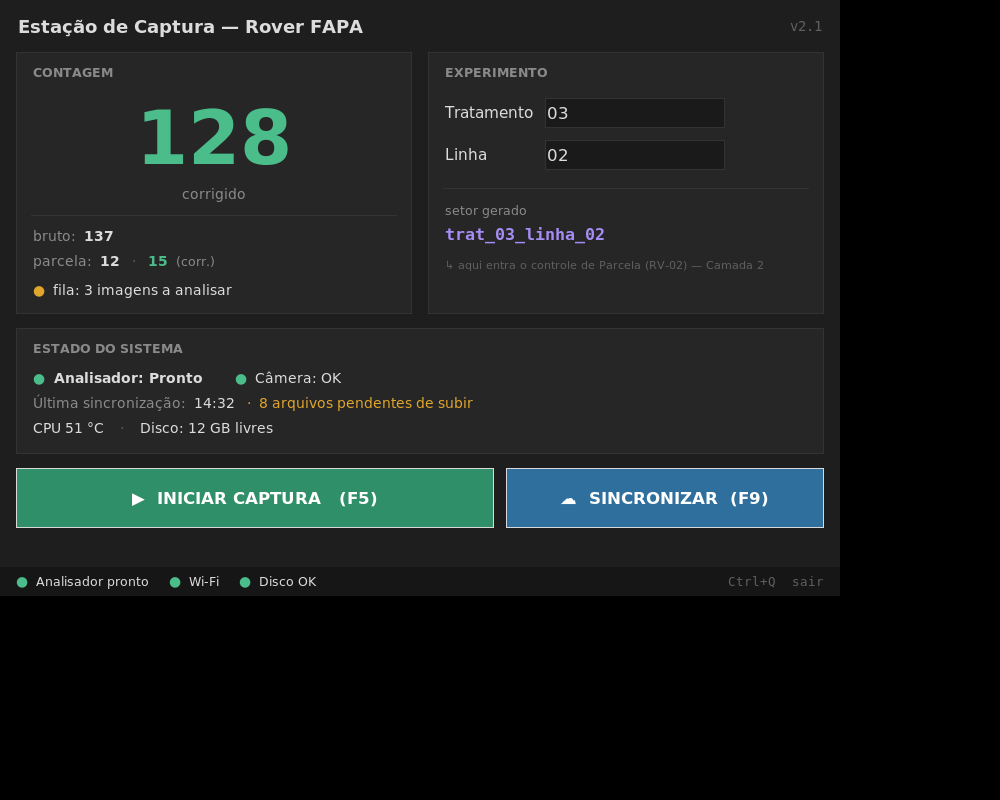
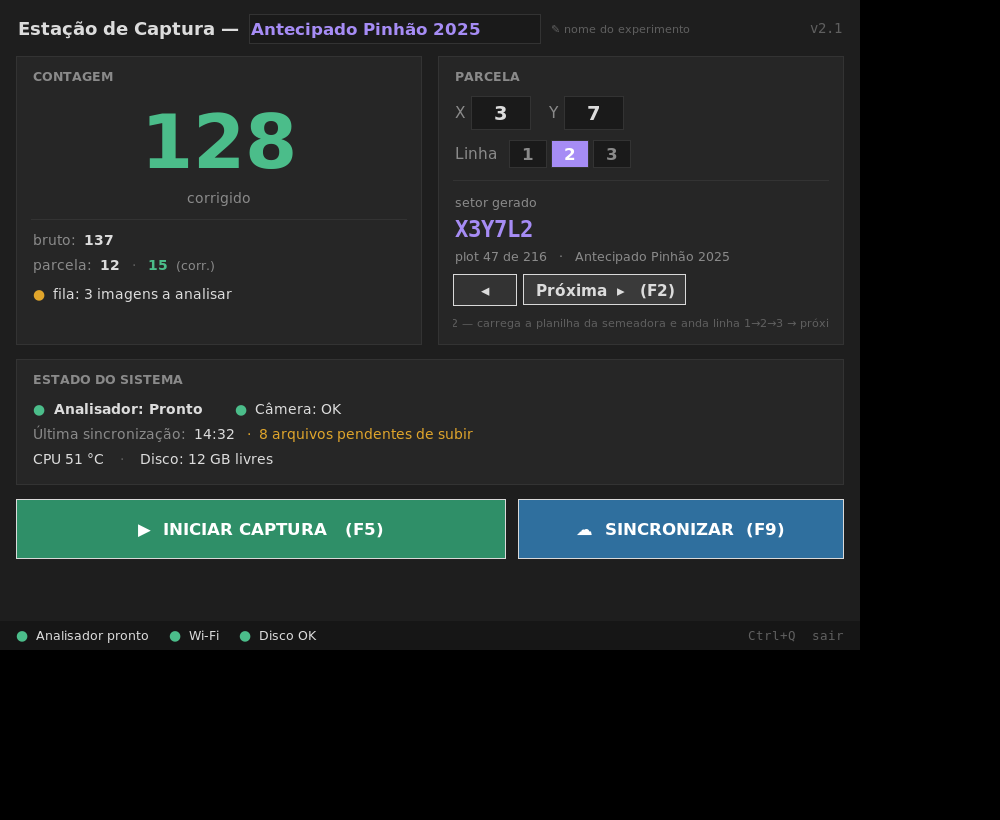
docs: nomenclatura definida pelo Leandro (planilha da semeadora)
- plot = X{n}Y{m}, cada plot tem linha 1/2/3; setor proposto X3Y7L2
- nome do experimento vira campo editável no painel (pedido do Leandro)
- rover carrega a Plan1 da semeadora e segue a ordem dos plots
- bloco EXPERIMENTO do plano vira bloco PARCELA (X/Y/Linha + Próxima)
- docs/exemplos/: planilha de referência (xlsx + csv)
- mock atualizado

diff --git a/mocks/mock_v1.py b/mocks/mock_v1.py
@@ -18,8 +18,8 @@ ACCENT  = "#a68cf5"
 
 root = tk.Tk()
 root.title("Estação de Captura — Rover FAPA")
-root.geometry("840x596")
-root.minsize(760, 560)
+root.geometry("860x650")
+root.minsize(780, 600)
 root.configure(bg=BG)
 
 F  = lambda s,w="normal": font.Font(family="DejaVu Sans", size=s, weight=w)
@@ -44,8 +44,14 @@ def dot(parent, cor, texto, fnt=None):
 # ===== cabeçalho =====
 hdr = tk.Frame(root, bg=BG)
 hdr.pack(fill="x", padx=16, pady=(14, 8))
-tk.Label(hdr, text="Estação de Captura — Rover FAPA", bg=BG, fg=TXT,
+tk.Label(hdr, text="Estação de Captura —", bg=BG, fg=TXT,
          font=F(13, "bold")).pack(side="left")
+exp = tk.Entry(hdr, width=24, font=F(12, "bold"), relief="solid", bd=0,
+               bg="#1a1a1a", fg=ACCENT, insertbackground=TXT,
+               highlightbackground=CARD_BD, highlightthickness=1)
+exp.insert(0, "Antecipado Pinhão 2025")
+exp.pack(side="left", padx=8, ipady=3)
+tk.Label(hdr, text="✎ nome do experimento", bg=BG, fg=FAINT, font=F(8)).pack(side="left")
 tk.Label(hdr, text="v2.1", bg=BG, fg=FAINT, font=FM(10)).pack(side="right")
 
 # ===== linha 1: CONTAGEM | EXPERIMENTO =====
@@ -71,23 +77,40 @@ tk.Label(row, text="15", bg=CARD, fg=GREEN, font=F(10, "bold")).pack(side="left"
 tk.Label(row, text=" (corr.)", bg=CARD, fg=MUT, font=F(9)).pack(side="left")
 dot(c, AMBER, "fila: 3 imagens a analisar").pack(anchor="w", pady=(8, 0))
 
-# -- Experimento --
-e_out, e = card(row1, "EXPERIMENTO")
+# -- Experimento / Parcela --
+e_out, e = card(row1, "PARCELA")
 e_out.grid(row=0, column=1, sticky="nsew", padx=(8, 0), pady=4)
-grid = tk.Frame(e, bg=CARD); grid.pack(anchor="w", pady=(6, 0))
-def campo(r, rot, val):
-    tk.Label(grid, text=rot, bg=CARD, fg=TXT, font=F(11)).grid(row=r, column=0, sticky="w", pady=6, padx=(0, 10))
-    ent = tk.Entry(grid, width=16, font=F(12), relief="solid", bd=0,
+
+xy = tk.Frame(e, bg=CARD); xy.pack(anchor="w", pady=(6, 0))
+def numfield(parent, rot, val):
+    tk.Label(parent, text=rot, bg=CARD, fg=MUT, font=F(11)).pack(side="left", padx=(0, 4))
+    ent = tk.Entry(parent, width=4, font=F(14, "bold"), justify="center", relief="solid", bd=0,
                    bg="#1a1a1a", fg=TXT, insertbackground=TXT,
                    highlightbackground=CARD_BD, highlightthickness=1)
-    ent.insert(0, val); ent.grid(row=r, column=1, sticky="w", pady=6, ipady=3)
-campo(0, "Tratamento", "03")
-campo(1, "Linha", "02")
+    ent.insert(0, val); ent.pack(side="left", padx=(0, 16), ipady=3)
+numfield(xy, "X", "3")
+numfield(xy, "Y", "7")
+
+lin = tk.Frame(e, bg=CARD); lin.pack(anchor="w", pady=(10, 0))
+tk.Label(lin, text="Linha", bg=CARD, fg=MUT, font=F(11)).pack(side="left", padx=(0, 8))
+for n in (1, 2, 3):
+    on = (n == 2)
+    tk.Label(lin, text=f" {n} ", font=F(12, "bold"),
+             bg=(ACCENT if on else "#1a1a1a"), fg=("white" if on else MUT),
+             padx=6, pady=3, relief="solid", bd=0,
+             highlightbackground=CARD_BD, highlightthickness=1).pack(side="left", padx=2)
+
 tk.Frame(e, bg=CARD_BD, height=1).pack(fill="x", pady=12)
 tk.Label(e, text="setor gerado", bg=CARD, fg=MUT, font=F(9)).pack(anchor="w")
-tk.Label(e, text="trat_03_linha_02", bg=CARD, fg=ACCENT, font=FM(12, "bold")).pack(anchor="w", pady=(2, 0))
-tk.Label(e, text="↳ aqui entra o controle de Parcela (RV-02) — Camada 2",
-         bg=CARD, fg=FAINT, font=F(8)).pack(anchor="w", pady=(10, 0))
+tk.Label(e, text="X3Y7L2", bg=CARD, fg=ACCENT, font=FM(16, "bold")).pack(anchor="w", pady=(2, 0))
+tk.Label(e, text="plot 47 de 216   ·   Antecipado Pinhão 2025", bg=CARD, fg=MUT, font=F(9)).pack(anchor="w", pady=(2, 8))
+nav = tk.Frame(e, bg=CARD); nav.pack(anchor="w")
+tk.Button(nav, text="◂", bg="#333333", fg=TXT, font=F(12, "bold"), bd=0, relief="flat",
+          width=3, cursor="hand2").pack(side="left", padx=(0, 6))
+tk.Button(nav, text="Próxima  ▸   (F2)", bg="#3a3a3a", fg=TXT, font=F(11, "bold"), bd=0,
+          relief="flat", cursor="hand2", padx=10, pady=4).pack(side="left")
+tk.Label(e, text="↳ RV-02 — carrega a planilha da semeadora e anda linha 1→2→3 → próximo plot",
+         bg=CARD, fg=FAINT, font=F(8)).pack(anchor="w", pady=(8, 0))
 
 # ===== linha 2: ESTADO DO SISTEMA =====
 s_out, s = card(root, "ESTADO DO SISTEMA")

diff --git a/docs/PLANO-PAINEL-v1.md b/docs/PLANO-PAINEL-v1.md
@@ -78,16 +78,16 @@ class StatusAnalise:
 
 ```
 ┌───────────────────────────────────────────────────┐
-│  Estação de Captura — Rover FAPA             v2.1  │
+│  Estação de Captura — [ Antecipado Pinhão 2025 ] ✎ │  ← nome do experimento editável
 ├─────────────────────────┬─────────────────────────┤
 │  CONTAGEM               │  EXPERIMENTO            │
-│                         │  Tratamento  [ 03    ]  │
-│        128              │  Linha       [ 02    ]  │
+│                         │  X [ 3 ]  Y [ 7 ]       │
+│        128              │  Linha  ( 1 )(•2•)( 3 ) │
 │      corrigido          │                         │
 │   bruto: 137            │  setor gerado:          │
-│   parcela: 12 · 15      │  trat_03_linha_02       │
-│   fila: 3 a analisar ⚠  │  (aqui entra o bloco    │
-│                         │   Parcela na Camada 2)  │
+│   parcela: 12 · 15      │  X3Y7L2                 │
+│   fila: 3 a analisar ⚠  │  plot 47 de 216         │
+│                         │  [ ◂ ] [ Próxima ▸ (F2) ]│  ← Camada 2 (RV-02)
 ├─────────────────────────┴─────────────────────────┤
 │  ESTADO DO SISTEMA                                 │
 │  Analisador ● Pronto        Câmera ● OK            │
@@ -108,10 +108,12 @@ class StatusAnalise:
    - `parcela: <bruto> · <corrigido>` — **TOTAL funcionando** (vem pronto do status.json).
    - `fila: N a analisar` — `len(imagens_para_analisar/)`. Se N alto → cor âmbar.
 
-2. **Experimento** (era "Configurações do Experimento")
-   - Mantém os campos **Tratamento** e **Linha** (por enquanto — o bloco Parcela do RV-02 é Camada 2).
-   - Mostra o **`setor` gerado** ao vivo (`trat_{t}_linha_{l}`) — o operador vê o que vai ser gravado.
-   - Espaço reservado no layout para o controle de parcela futuro.
+2. **Experimento** (era "Configurações do Experimento") — **redefinido pelo feedback do Leandro (planilha da semeadora, 2026-08-31):**
+   - **Nome do experimento** — campo **editável** (pedido explícito do Leandro: o título "Estação de Captura Rover FAPA" deve virar um campo personalizável, exportado como nome do experimento). Ex.: `Antecipado Pinhão 2025`.
+   - **X** (largura, 1…12) · **Y** (comprimento, 1…18) · **Linha** (1 / 2 / 3).
+   - Mostra o **`setor` gerado** ao vivo: `X3Y7L2`.
+   - Base do RV-02 (Camada 2): botão "Próxima" que anda linha 1→2→3 e depois o próximo plot, seguindo a ordem da planilha `Plan1` carregada. Ver `docs/exemplos/` e a nota [[Planilha da semeadora]] do vault.
+   - **Aberto com o Leandro**: formato exato (`X3Y7L2` vs `X3Y7-L2` vs zero à esquerda), ordem das linhas, se carrega a planilha.
 
 3. **Estado do sistema** (era "Telemetria Raspberry Pi")
    - **Estado real do analisador**: `Carregando modelo… → Pronto → Analisando → Erro` (hoje só "Parado").
@@ -146,9 +148,10 @@ class StatusAnalise:
 | 5 | Telemetria corta texto | layout do bloco Estado do Sistema refeito |
 | 6 | Versão errada no título ("v2.5") | `config.VERSAO` |
 
-**CSV**: a v1 padroniza o cabeçalho no formato que o código já escreve
-(`timestamp_analise, setor_imagem, timestamp_imagem, plantulas_detectadas_ia, plantulas_ajustadas, nome_imagem`).
-A migração/limpeza do histórico antigo (11 padrões, 97 linhas vazias) é **RV-06**, não entra aqui.
+**CSV**: com a planilha do Leandro, o cabeçalho canônico passa a separar os campos do plot
+(`experimento, X, Y, linha, timestamp_analise, timestamp_imagem, plantulas_bruto, plantulas_corrigido, nome_imagem`)
+— assim o **export** pivota direto para as colunas `linha 1 / linha 2 / linha 3` da planilha.
+O histórico antigo (11 padrões, 97 linhas vazias) era teste → provável **descartar** e começar limpo. Detalhes em [[Planilha da semeadora]] / RV-06.
 
 ## Fora de escopo da v1 (Camada 2+)
 

diff --git a/docs/exemplos/README.md b/docs/exemplos/README.md
@@ -1,0 +1,13 @@
+# Exemplos
+
+- **`programacao-semeadora-exemplo.xlsx`** — planilha de programação da semeadora
+  passada pelo Leandro (ensaio "Antecipado Pinhão 2025"), fonte da nomenclatura.
+  - Aba `Plan1`: 1 linha por plot (216), colunas `Parcela Larg. (X)` 1…12,
+    `Parcela Compr.(Y)` 1…18, `ID Opcional` (nome do experimento),
+    `Carreiras por parcela` = 3, e colunas vazias `linha 1` / `linha 2` / `linha 3`
+    (onde entra a contagem no export).
+  - Aba `Planilha1`: grade visual — confirma o identificador do plot: **`X{n}Y{m}`**.
+- **`programacao-semeadora-exemplo.csv`** — mesma aba `Plan1` em CSV, para leitura rápida.
+
+Ver o plano em [`../PLANO-PAINEL-v1.md`](../PLANO-PAINEL-v1.md) (bloco PARCELA)
+e a análise da nomenclatura em [`../ANALISE-E-MAPA.md`](../ANALISE-E-MAPA.md).
